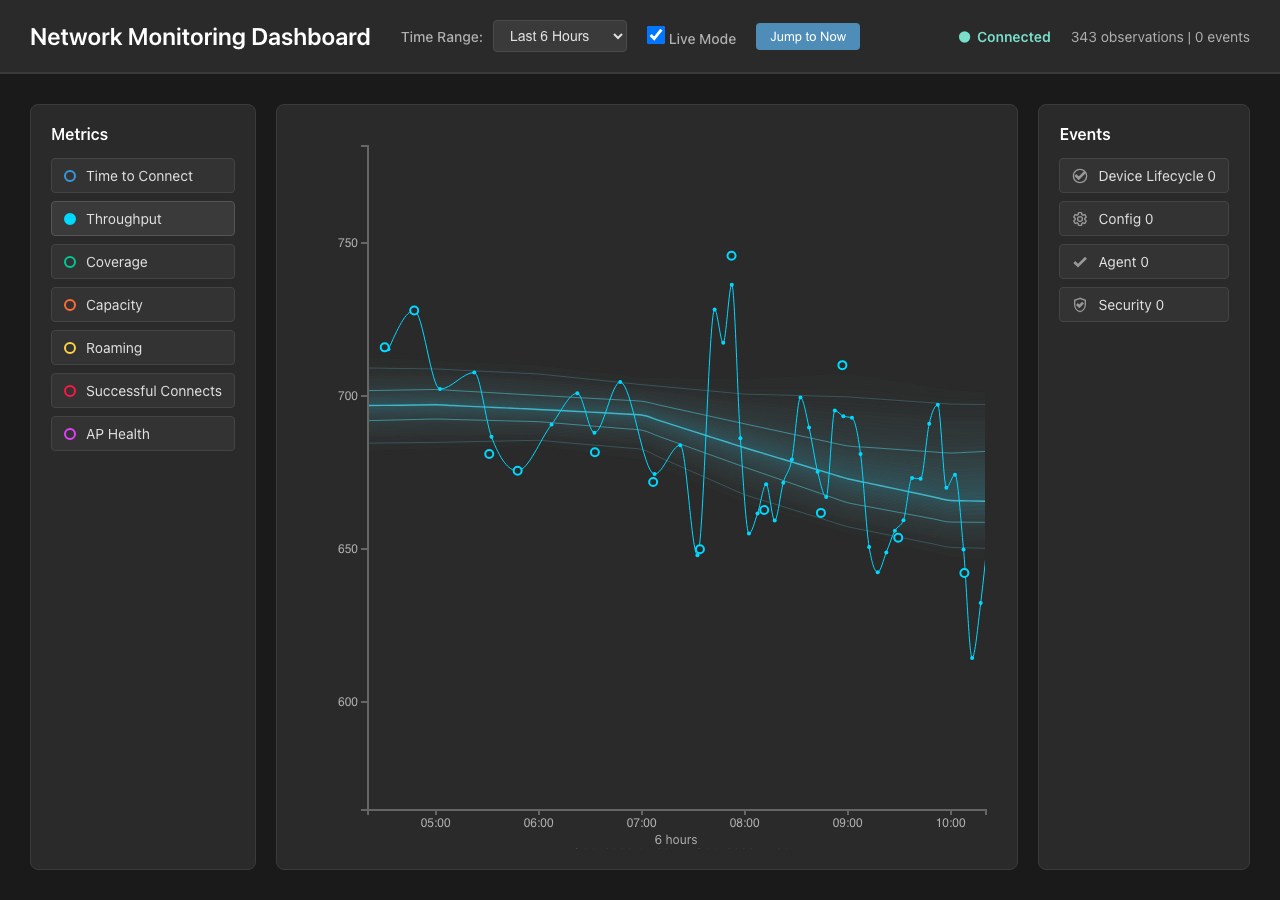
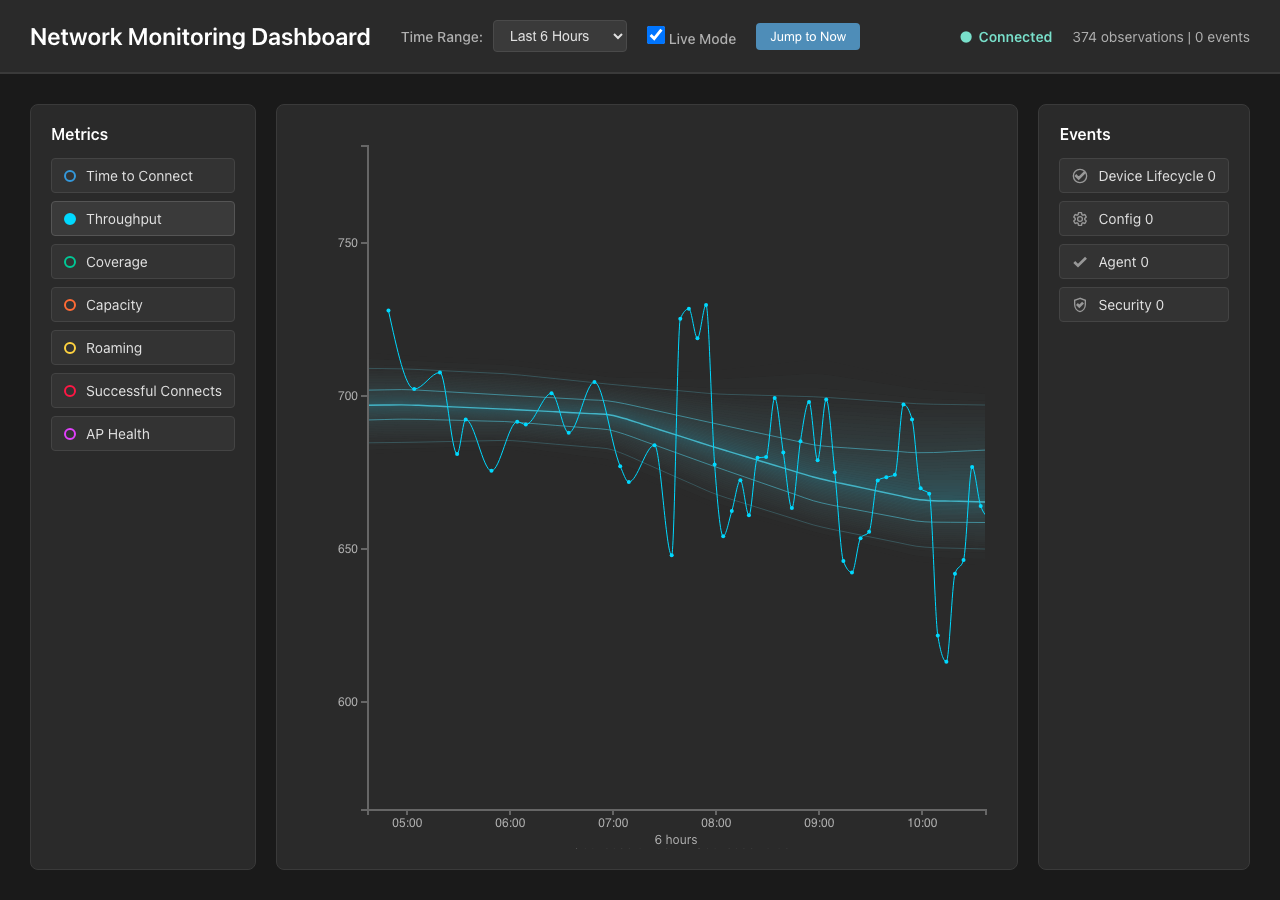
Remove outlier rings and default to 12 hours

diff --git a/frontend/src/chart/generators/LineGenerator.ts b/frontend/src/chart/generators/LineGenerator.ts
@@ -91,11 +91,9 @@ export class LineGenerator implements Generator {
   private group: d3.Selection<SVGGElement, unknown, null, undefined>;
   private path: d3.Selection<SVGPathElement, unknown, null, undefined>;
   private markersGroup: d3.Selection<SVGGElement, unknown, null, undefined>;
-  private excursionsGroup: d3.Selection<SVGGElement, unknown, null, undefined>;
   private xScale: any;
   private yScale: any;
   private data: Array<Observation | TrendPoint> = [];
-  private excursions: Array<Observation | TrendPoint> = [];
   private color: string;
   private strokeWidth: number;
   private markerRadius: number;
@@ -125,7 +123,6 @@ export class LineGenerator implements Generator {
       .attr("stroke-width", strokeWidth);
 
     this.markersGroup = this.group.append("g").attr("class", "markers");
-    this.excursionsGroup = this.group.append("g").attr("class", "excursions");
   }
 
   setScales(xScale: any, yScale: any): void {
@@ -133,13 +130,8 @@ export class LineGenerator implements Generator {
     this.yScale = yScale;
   }
 
-  update(
-    data: Array<Observation | TrendPoint>,
-    range: [number, number],
-    excursions: Array<Observation | TrendPoint> = [],
-  ): void {
+  update(data: Array<Observation | TrendPoint>, range: [number, number]): void {
     this.data = data;
-    this.excursions = excursions;
     this.redraw(range);
   }
 
@@ -192,36 +184,6 @@ export class LineGenerator implements Generator {
         .attr("cx", (d) => this.xScale(new Date(d.timestamp * 1000)))
         .attr("cy", (d) => this.yScale(d.value));
     }
-
-    this.renderExcursionMarkers(range);
-  }
-
-  private renderExcursionMarkers(range: [number, number]): void {
-    const visibleExcursions = this.excursions.filter(
-      (d) => d.timestamp >= range[0] && d.timestamp <= range[1],
-    );
-
-    const markers = this.excursionsGroup
-      .selectAll<SVGCircleElement, Observation | TrendPoint>(".excursion-marker")
-      .data(
-        visibleExcursions,
-        (d) =>
-          `${(d as TrendPoint).sourceStartTimestamp ?? d.timestamp}-${(d as TrendPoint).sourceEndTimestamp ?? d.timestamp}`,
-      );
-
-    markers.exit().remove();
-
-    markers
-      .enter()
-      .append("circle")
-      .attr("class", "excursion-marker")
-      .attr("r", this.markerRadius + 2)
-      .attr("fill", "#2A2A2A")
-      .attr("stroke", this.color)
-      .attr("stroke-width", 2)
-      .merge(markers)
-      .attr("cx", (d) => this.xScale(new Date(d.timestamp * 1000)))
-      .attr("cy", (d) => this.yScale(d.value));
   }
 
   show(): void {

diff --git a/frontend/src/tests/distributionRibbon.test.ts b/frontend/src/tests/distributionRibbon.test.ts
@@ -216,6 +216,55 @@ describe("DistributionRibbonGenerator", () => {
     );
   });
 
+  it("represents outside-footprint observations through the trace without extra rings", () => {
+    const container = appendContainer();
+    const now = 1_700_000_000;
+    const traceColor = "#3498DB";
+    const config: ChartConfig = {
+      width: 800,
+      height: 500,
+      margin: { top: 20, right: 20, bottom: 40, left: 60 },
+      metric: "time_to_connect",
+      timeRange: [now - 3600, now],
+      showDistribution: true,
+      showEvents: false,
+      liveMode: false,
+      colors: {
+        line: traceColor,
+        distribution: `${traceColor}33`,
+        event: "#999",
+        eventHover: "#7EC7FF",
+      },
+    };
+
+    const chart = new ChartView(container, config);
+    chart.addMetric("time_to_connect", traceColor, "Time to Connect");
+    chart.setBaseline(
+      "time_to_connect",
+      makeBaseline(
+        makeDistribution({
+          p1: 18,
+          p5: 19,
+          p25: 21,
+          p50: 22,
+          p75: 23,
+          p95: 25,
+          p99: 26,
+        }),
+      ),
+    );
+    chart.loadHistoricalData("time_to_connect", [
+      { timestamp: now - 3600, value: 22 },
+      { timestamp: now - 1800, value: 33 },
+      { timestamp: now, value: 23 },
+    ]);
+
+    const line = container.querySelector<SVGPathElement>("svg .line");
+
+    expect(line?.getAttribute("d")?.length).toBeGreaterThan(20);
+    expect(container.querySelectorAll(".excursion-marker")).toHaveLength(0);
+  });
+
   it("renders exactly five percentile contours", () => {
     const { container } = renderRibbon("#3498DB");
     const contours = Array.from(

diff --git a/frontend/src/chart/ChartView.ts b/frontend/src/chart/ChartView.ts
@@ -1744,15 +1744,7 @@ export class ChartView {
           ...obs,
           value: this.normalizeValue(obs.value, metricData.normalizedYDomain),
         }));
-        const normalizedExcursions = trendDisplay.excursions.map((obs) => ({
-          ...obs,
-          value: this.normalizeValue(obs.value, metricData.normalizedYDomain),
-        }));
-        metricData.lineGenerator.update(
-          normalizedObs,
-          range,
-          normalizedExcursions,
-        );
+        metricData.lineGenerator.update(normalizedObs, range);
 
         // Hide distribution for multi-metric view
         if (metricData.distributionGenerator) {
@@ -1760,11 +1752,7 @@ export class ChartView {
         }
       } else {
         // Single metric: use actual values for derived display data
-        metricData.lineGenerator.update(
-          trendDisplay.points,
-          range,
-          trendDisplay.excursions,
-        );
+        metricData.lineGenerator.update(trendDisplay.points, range);
 
         // FIX C: Explicitly show distribution when in single-metric mode.
         // It may have been hidden during a prior multi-metric render.

diff --git a/frontend/index.html b/frontend/index.html
@@ -14,10 +14,10 @@
             <div class="control-group">
               <label for="time-range">Time Range:</label>
               <select id="time-range">
-                <option value="3600" selected>Last Hour</option>
+                <option value="3600">Last Hour</option>
                 <option value="10800">Last 3 Hours</option>
                 <option value="21600">Last 6 Hours</option>
-                <option value="43200">Last 12 Hours</option>
+                <option value="43200" selected>Last 12 Hours</option>
                 <option value="86400">Last 24 Hours</option>
               </select>
             </div>

diff --git a/frontend/src/main.ts b/frontend/src/main.ts
@@ -98,7 +98,7 @@ type APIClientLike = Pick<
 class MonitoringApp {
   private chart: ChartView;
   private api: APIClientLike;
-  private currentTimeRangeSeconds: number = 3600; // Start with 1 hour
+  private currentTimeRangeSeconds: number = 43200; // Start with 12 hours
   private allEvents: Event[] = [];
   private loadedRange: [number, number] = [0, 0]; // Track the actual data range
   private dataFetchDebounceTimer: number | null = null;

diff --git a/docs/design-review/distribution-ribbon-visual-acceptance.md b/docs/design-review/distribution-ribbon-visual-acceptance.md
@@ -29,7 +29,7 @@ The active product path contains no Terrain renderer, Canvas layer, Terrain cont
 | Question | Result | Evidence |
 | --- | --- | --- |
 | Is this measured value typical? | Pass | The trace can be read relative to the p50, p25/p75, and p5/p95 contours without a health legend. |
-| Where did the measured value become unusual? | Pass | Outside-footprint points remain marked by the measured trace and excursion markers; contours clarify distance from the usual region. |
+| Where did the measured value become unusual? | Pass | Outside-footprint points are shown by the measured trace itself; contours clarify distance from the usual region without extra outlier rings. |
 | Which periods were more predictable? | Pass | Narrow periods show compressed contours and concentrated fill; broader periods show wider spacing and softer fill. |
 | Does hue read as metric identity? | Pass | Blue, cyan, orange, and red examples retain their metric trace hue in both fill and contours. |
 | Does the trace remain primary? | Pass | The ribbon group renders behind the measured trace, and contour opacity/stroke width stay below the foreground series. |
@@ -38,7 +38,7 @@ The active product path contains no Terrain renderer, Canvas layer, Terrain cont
 
 - Browser capture confirmed 64 fill bands and exactly five contours for each screenshot.
 - Browser capture confirmed the ribbon group renders before the measured trace group.
-- Focused ribbon tests cover metric-hue derivation, alpha boundaries, asymmetric percentile interpolation, no traffic-light fills, five contour paths, contour hierarchy, invalid percentile handling, hidden distribution mode, and trace preservation.
+- Focused ribbon tests cover metric-hue derivation, alpha boundaries, asymmetric percentile interpolation, no traffic-light fills, five contour paths, contour hierarchy, invalid percentile handling, hidden distribution mode, trace preservation, and trace-only outside-footprint observations.
 - Final automated gate: backend `pytest` passed 167 tests with 3 existing warnings.
 - Final automated gate: frontend `vitest` passed 120 tests across 17 files.
 - Final automated gate: frontend production build passed, and `git diff --check` was clean.
